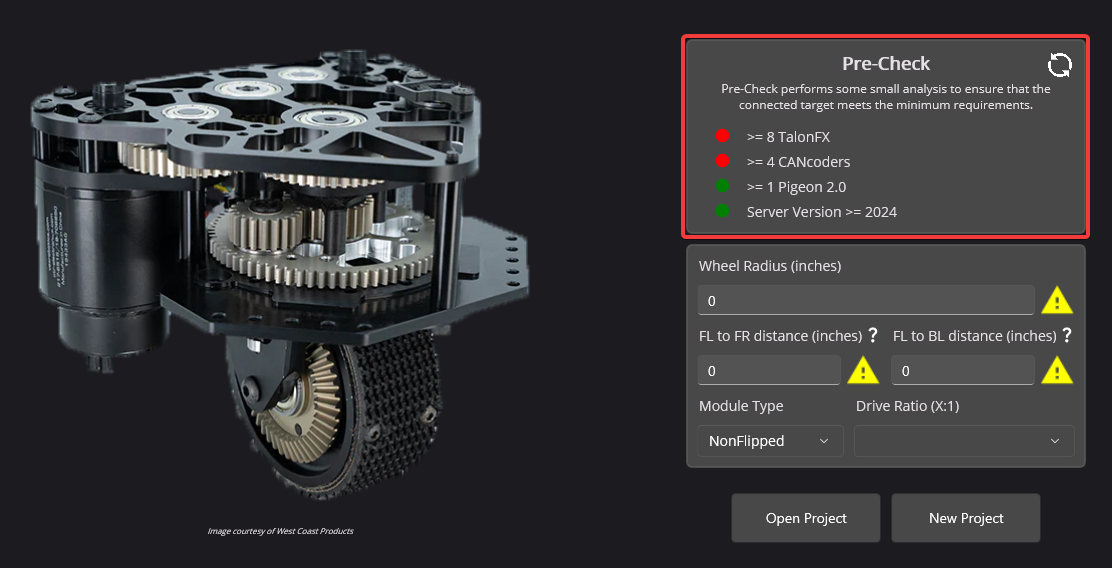
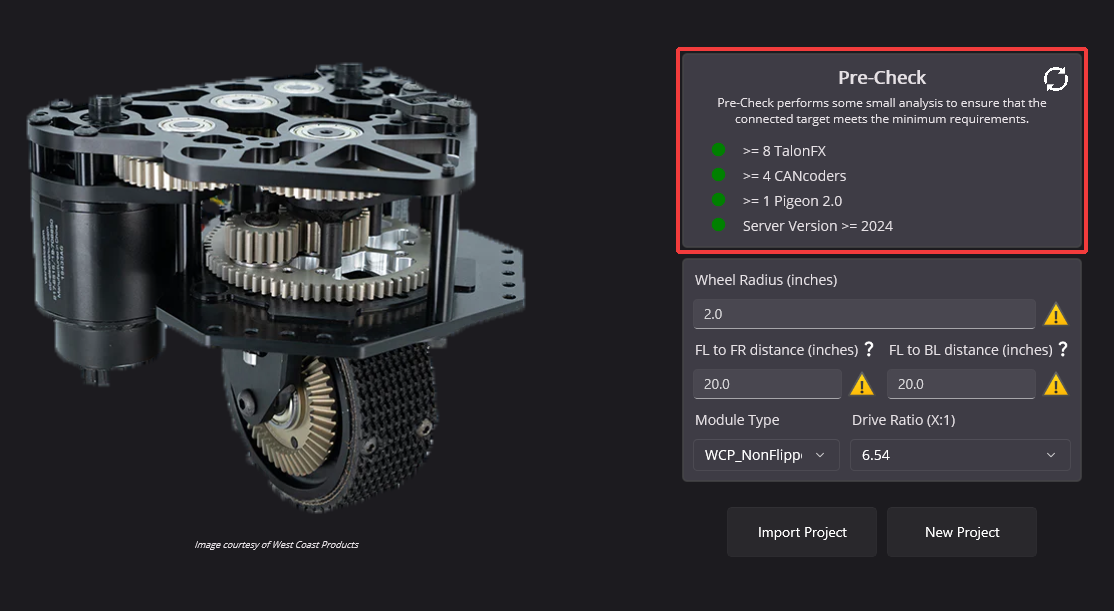
Fix and update swerve API docs

diff --git a/source/docs/api-reference/api-usage/swerve/swerve-builder-api.rst b/source/docs/api-reference/api-usage/swerve/swerve-builder-api.rst
@@ -6,7 +6,7 @@ To simplify the API surface, both `builder and factory <https://stackoverflow.co
 Defining Drivetrain Characteristics
 -----------------------------------
 
-Drivetrain, in this instance, refers to the ``SwerveDrivetrainConstants`` class (Java). This class defines characteristics that are not module specific. Mandatory parameters include ``.withPigeon2Id()`` (Java).
+Drivetrain, in this instance, refers to the ``SwerveDrivetrainConstants`` class (`Java <https://api.ctr-electronics.com/phoenix6/release/java/com/ctre/phoenix6/mechanisms/swerve/SwerveDrivetrainConstants.html>`__). This class defines characteristics that are not module specific. Mandatory parameters include ``.withPigeon2Id()``.
 
 ``SwerveDrivetrainConstants`` Example
 ^^^^^^^^^^^^^^^^^^^^^^^^^^^^^^^^^^^^^
@@ -20,22 +20,23 @@ Drivetrain, in this instance, refers to the ``SwerveDrivetrainConstants`` class 
 
          private static final SwerveDrivetrainConstants DrivetrainConstants = new SwerveDrivetrainConstants()
             .withPigeon2Id(kPigeonId)
-            .withSupportsPro(true)
-            .withCANbusName(kCANbusName);
+            .withCANbusName(kCANbusName)
+            .withSupportsPro(true);
 
 Defining Module Characteristics
 -------------------------------
 
-The typical FRC drivetrain includes 4 identical modules. To simplify module creation, there exists a ``SwerveModuleConstantsFactory`` (Java) class to simplify module creation.
+The typical FRC drivetrain includes 4 identical modules. To simplify module creation, there exists a ``SwerveModuleConstantsFactory`` (`Java <https://api.ctr-electronics.com/phoenix6/release/java/com/ctre/phoenix6/mechanisms/swerve/SwerveModuleConstantsFactory.html>`__) class to simplify module creation.
 
 Mandatory parameters for this factory are:
 
-* ``withDriveMotorGearRatio()`` (Java) - Gearing between the drive motor output shaft and the wheel.
-* ``withSteerMotorGearRatio()`` (Java) - Gearing between the steer motor output shaft and the azimuth gear.
-* ``withWheelRadius()`` (Java) - Radius of the wheel in inches.
-* ``withSteerMotorGains()`` (Java) - Instance of ``Slot0Configs`` of gains for the steering motor.
-* ``withDriveMotorGains()`` (Java) - Instance of ``Slot0Configs`` of gains for the drive motor.
-* ``withFeedbackSource()`` (Java) - Instance of ``SwerveModuleSteerFeedbackType``. Typically ``FusedCANcoder`` (Java) or ``RemoteCANcoder`` (Java).
+* ``withDriveMotorGearRatio()`` - Gearing between the drive motor output shaft and the wheel.
+* ``withSteerMotorGearRatio()`` - Gearing between the steer motor output shaft and the azimuth gear.
+* ``withWheelRadius()`` - Radius of the wheel in inches.
+* ``withSteerMotorGains()`` - Instance of ``Slot0Configs``, closed-loop gains for the steering motor.
+* ``withDriveMotorGains()`` - Instance of ``Slot0Configs``, closed-loop gains for the drive motor.
+* ``withSpeedAt12VoltsMps()`` - Required for open-loop control, theoretical free speed (m/s) at 12v applied output.
+* ``withFeedbackSource()`` - Instance of ``SwerveModuleSteerFeedbackType``. Typically ``FusedCANcoder`` (requires Pro) or ``RemoteCANcoder``.
 
 For functional simulation, the following additional parameters **must** be defined.
 
@@ -58,22 +59,22 @@ For a full reference of the available functions, see the API documentation of ``
             .withDriveMotorGearRatio(kDriveGearRatio)
             .withSteerMotorGearRatio(kSteerGearRatio)
             .withWheelRadius(kWheelRadiusInches)
-            .withSlipCurrent(800)
+            .withSlipCurrent(kSlipCurrentA)
             .withSteerMotorGains(steerGains)
             .withDriveMotorGains(driveGains)
-            .withSpeedAt12VoltsMps(6) // Theoretical free speed is 10 meters per second at 12v applied output
+            .withSpeedAt12VoltsMps(kSpeedAt12VoltsMps)
             .withSteerInertia(kSteerInertia)
             .withDriveInertia(kDriveInertia)
             .withFeedbackSource(SwerveModuleSteerFeedbackType.FusedCANcoder)
-            .withCouplingGearRatio(kCoupleRatio) // Every 1 rotation of the azimuth results in couple ratio drive turns
+            .withCouplingGearRatio(kCoupleRatio)
             .withSteerMotorInverted(kSteerMotorReversed);
 
 Building the Swerve Module Constants
 ------------------------------------
 
-``SwerveModuleConstants`` can be derived, or created, from the previous ``SwerveModuleConstantsFactory``. A typical swerve drivetrain consists of four identical modules: Front Left, Front Right, Back Left, Back Right. While these modules can be instantiated directly (only really useful if the modules have different physical characteristics), the modules can also be created by calling ``createModuleConstants()`` with the aforementioned factory.
+``SwerveModuleConstants`` (`Java <https://api.ctr-electronics.com/phoenix6/release/java/com/ctre/phoenix6/mechanisms/swerve/SwerveModuleConstants.html>`__) can be derived, or created, from the previous ``SwerveModuleConstantsFactory``. A typical swerve drivetrain consists of four identical modules: Front Left, Front Right, Back Left, Back Right. While these modules can be instantiated directly (only really useful if the modules have different physical characteristics), the modules can also be created by calling ``createModuleConstants()`` with the aforementioned factory.
 
-Calling ``ConstantCreator.createModuleConstants()`` takes the following arguments:
+Calling ``createModuleConstants()`` takes the following arguments:
 
 * Steer Motor ID
 * Drive Motor ID
@@ -81,8 +82,9 @@ Calling ``ConstantCreator.createModuleConstants()`` takes the following argument
 * Steer Encoder Offset
 * X position in meters
 * Y position in meters
+* Whether the drive motor is reversed
 
-.. note:: The X and Y position of the modules is measured from the center point of the robot. These values use the same coordinate system as ``Translation2d`` (`Java <https://github.wpilib.org/allwpilib/docs/release/java/edu/wpi/first/math/geometry/Translation2d.html>`__), where forward is positive X and left is positive Y.
+.. note:: The X and Y position of the modules is measured from the center point of the robot along the X and Y axes, respectively. These values use the same coordinate system as ``Translation2d`` (`Java <https://github.wpilib.org/allwpilib/docs/release/java/edu/wpi/first/math/geometry/Translation2d.html>`__), where forward is positive X and left is positive Y.
 
 ``SwerveModuleConstants`` Example
 ^^^^^^^^^^^^^^^^^^^^^^^^^^^^^^^^^
@@ -106,9 +108,9 @@ Calling ``ConstantCreator.createModuleConstants()`` takes the following argument
 Building the ``SwerveDrivetrain``
 ---------------------------------
 
-.. note:: ``CommandSwerveDrivetrain`` (Java) is a version that implements ``Subsystem`` for easy command-based integration.
+.. note:: ``CommandSwerveDrivetrain`` is a version created by the Tuner X :doc:`Swerve Project Generator </docs/tuner/tuner-swerve/index>` that implements ``Subsystem`` (`Java <https://github.wpilib.org/allwpilib/docs/release/java/edu/wpi/first/wpilibj2/command/Subsystem.html>`__) for easy command-based integration.
 
-``SwerveDrivetrain`` (Java) is the class that handles odometry, configuration and control of the drivetrain. The constructor for this class takes the previous ``SwerveDrivetrainConstants`` and a list of ``SwerveModuleConstants``.
+``SwerveDrivetrain`` (`Java <https://api.ctr-electronics.com/phoenix6/release/java/com/ctre/phoenix6/mechanisms/swerve/SwerveDrivetrain.html>`__) is the class that handles odometry, configuration and control of the drivetrain. The constructor for this class takes the previous ``SwerveDrivetrainConstants`` and a list of ``SwerveModuleConstants``.
 
 .. tab-set::
 
@@ -133,79 +135,104 @@ Full Example
       .. code-block:: java
 
          static class CustomSlotGains extends Slot0Configs {
-            public CustomSlotGains(double kP, double kI, double kD, double kV, double kS) {
-                  this.kP = kP;
-                  this.kI = kI;
-                  this.kD = kD;
-                  this.kV = kV;
-                  this.kS = kS;
+            public CustomSlotGains(double kP, double kI, double kD, double kS, double kV, double kA) {
+               this.kP = kP;
+               this.kI = kI;
+               this.kD = kD;
+               this.kS = kS;
+               this.kV = kV;
+               this.kA = kA;
             }
          }
 
-         private static final CustomSlotGains steerGains = new CustomSlotGains(50, 0, 0.05, 0, 0);
-         private static final CustomSlotGains driveGains = new CustomSlotGains(3, 0, 0, 0, 0);
+         // These gains need to be tuned to your individual robot
+         private static final CustomSlotGains steerGains = new CustomSlotGains(100, 0, 0.05, 0, 0, 0);
+         private static final CustomSlotGains driveGains = new CustomSlotGains(3, 0, 0, 0, 0, 0);
 
-         private static final double kCoupleRatio = 0.0;
+         // The stator current at which the wheels start to slip;
+         // This needs to be tuned to your individual robot
+         private static final double kSlipCurrentA = 300.0;
 
-         private static final double kDriveGearRatio = 6.056;
-         private static final double kSteerGearRatio = 12.8;
+         // Theoretical free speed (m/s) at 12v applied output;
+         // This needs to be tuned to your individual robot
+         private static final double kSpeedAt12VoltsMps = 6.0;
+
+         // Every 1 rotation of the azimuth results in kCoupleRatio drive motor turns;
+         // This may need to be tuned to your individual robot
+         private static final double kCoupleRatio = 3.5;
+
+         private static final double kDriveGearRatio = 6.75;
+         private static final double kSteerGearRatio = 15.43;
          private static final double kWheelRadiusInches = 2;
-         private static final int kPigeonId = 1;
+
          private static final boolean kSteerMotorReversed = false;
-         private static final String kCANbusName = "";
          private static final boolean kInvertLeftSide = false;
          private static final boolean kInvertRightSide = true;
 
-         private static double kSteerInertia = 0.0001;
+         private static final String kCANbusName = "";
+         private static final int kPigeonId = 1;
+
+
+         // These are only used for simulation
+         private static double kSteerInertia = 0.00001;
          private static double kDriveInertia = 0.001;
 
          private static final SwerveDrivetrainConstants DrivetrainConstants = new SwerveDrivetrainConstants()
                .withPigeon2Id(kPigeonId)
-               .withSupportsPro(true)
-               .withCANbusName(kCANbusName);
+               .withCANbusName(kCANbusName)
+               .withSupportsPro(true);
 
          private static final SwerveModuleConstantsFactory ConstantCreator = new SwerveModuleConstantsFactory()
                .withDriveMotorGearRatio(kDriveGearRatio)
                .withSteerMotorGearRatio(kSteerGearRatio)
                .withWheelRadius(kWheelRadiusInches)
-               .withSlipCurrent(800)
+               .withSlipCurrent(kSlipCurrentA)
                .withSteerMotorGains(steerGains)
                .withDriveMotorGains(driveGains)
-               .withSpeedAt12VoltsMps(6) // Theoretical free speed is 10 meters per second at 12v applied output
+               .withSpeedAt12VoltsMps(kSpeedAt12VoltsMps)
                .withSteerInertia(kSteerInertia)
                .withDriveInertia(kDriveInertia)
                .withFeedbackSource(SwerveModuleSteerFeedbackType.FusedCANcoder)
-               .withCouplingGearRatio(kCoupleRatio) // Every 1 rotation of the azimuth results in couple ratio drive turns
+               .withCouplingGearRatio(kCoupleRatio)
                .withSteerMotorInverted(kSteerMotorReversed);
 
+
+         // Front Left
          private static final int kFrontLeftDriveMotorId = 1;
          private static final int kFrontLeftSteerMotorId = 0;
          private static final int kFrontLeftEncoderId = 0;
          private static final double kFrontLeftEncoderOffset = -0.75;
 
-         private static final double kFrontLeftXPosInches = 0.5;
+         private static final double kFrontLeftXPosInches = 10.5;
          private static final double kFrontLeftYPosInches = 10.5;
+
+         // Front Right
          private static final int kFrontRightDriveMotorId = 3;
          private static final int kFrontRightSteerMotorId = 2;
          private static final int kFrontRightEncoderId = 1;
          private static final double kFrontRightEncoderOffset = -0.75;
 
-         private static final double kFrontRightXPosInches = 0.5;
+         private static final double kFrontRightXPosInches = 10.5;
          private static final double kFrontRightYPosInches = -10.5;
+
+         // Back Left
          private static final int kBackLeftDriveMotorId = 5;
          private static final int kBackLeftSteerMotorId = 4;
          private static final int kBackLeftEncoderId = 2;
          private static final double kBackLeftEncoderOffset = -0.75;
 
-         private static final double kBackLeftXPosInches = -0.5;
+         private static final double kBackLeftXPosInches = -10.5;
          private static final double kBackLeftYPosInches = 10.5;
+
+         // Back Right
          private static final int kBackRightDriveMotorId = 7;
          private static final int kBackRightSteerMotorId = 6;
          private static final int kBackRightEncoderId = 3;
          private static final double kBackRightEncoderOffset = -0.75;
 
-         private static final double kBackRightXPosInches = -0.5;
+         private static final double kBackRightXPosInches = -10.5;
          private static final double kBackRightYPosInches = -10.5;
+
 
          private static final SwerveModuleConstants FrontLeft = ConstantCreator.createModuleConstants(
                kFrontLeftSteerMotorId, kFrontLeftDriveMotorId, kFrontLeftEncoderId, kFrontLeftEncoderOffset, Units.inchesToMeters(kFrontLeftXPosInches), Units.inchesToMeters(kFrontLeftYPosInches), kInvertLeftSide);

diff --git a/source/docs/api-reference/api-usage/swerve/swerve-overview.rst b/source/docs/api-reference/api-usage/swerve/swerve-overview.rst
@@ -9,10 +9,10 @@ This section focuses on utilizing the Swerve API and configuring it correctly. T
 
 - Small API surface, easily debuggable
 
-  * Build robot characteristics using ``SwerveModuleConstants`` (Java) and ``SwerveDrivetrainConstants``.
-  * Integrates cleanly into WPILib `command-based <https://docs.wpilib.org/en/stable/docs/software/commandbased/index.html>`__ framework via ``CommandSwerveDrivetrain`` (Java).
-  * Telemetrize directly in the odometry loop using the ``registerTelemetry()`` (Java) lambda.
-  * Supports handling the swerve state via ``SwerveRequest`` (Java).
+  * Build robot characteristics using ``SwerveModuleConstants`` (`Java <https://api.ctr-electronics.com/phoenix6/release/java/com/ctre/phoenix6/mechanisms/swerve/SwerveModuleConstants.html>`__) and ``SwerveDrivetrainConstants`` (`Java <https://api.ctr-electronics.com/phoenix6/release/java/com/ctre/phoenix6/mechanisms/swerve/SwerveDrivetrainConstants.html>`__).
+  * Integrates cleanly into WPILib `command-based <https://docs.wpilib.org/en/stable/docs/software/commandbased/index.html>`__ framework using ``CommandSwerveDrivetrain`` (from our examples or Tuner X).
+  * Telemetrize directly in the odometry loop using the ``registerTelemetry()`` (`Java <https://api.ctr-electronics.com/phoenix6/release/java/com/ctre/phoenix6/mechanisms/swerve/SwerveDrivetrain.html#registerTelemetry(java.util.function.Consumer)>`__) lambda.
+  * Supports handling the swerve state via ``SwerveRequest`` (`Java <https://api.ctr-electronics.com/phoenix6/release/java/com/ctre/phoenix6/mechanisms/swerve/SwerveRequest.html>`__).
 
     * Supports robot-centric, field-centric and field-centric facing angle.
     * Supports common scenarios such as X mode (point all modules toward the center of the robot).
@@ -20,13 +20,13 @@ This section focuses on utilizing the Swerve API and configuring it correctly. T
 - Simulation
 
   * Swerve simulation focuses on usability, and as such isn't perfectly accurate to a real robot.
-  * Simply call ``updateSimState`` (Java) in ``simulationPeriodic()`` (`Java <https://github.wpilib.org/allwpilib/docs/release/java/edu/wpi/first/wpilibj/IterativeRobotBase.html#simulationPeriodic()>`__).
+  * Simply call ``updateSimState`` (`Java <https://api.ctr-electronics.com/phoenix6/release/java/com/ctre/phoenix6/mechanisms/swerve/SwerveDrivetrain.html#updateSimState(double,double)>`__) in ``simulationPeriodic()`` (`Java <https://github.wpilib.org/allwpilib/docs/release/java/edu/wpi/first/wpilibj/IterativeRobotBase.html#simulationPeriodic()>`__).
 
 - Performance
 
-  * Odometry is updated synchronous with the motor controllers.
-  * Odometry is received as fast as possible via a separate thread.
-  * Combine with `Phoenix Pro <https://store.ctr-electronics.com/phoenix-pro/>`__ (optional) and a `CANivore <https://store.ctr-electronics.com/canivore/>`__ (optional) with :ref:`timesync <docs/api-reference/api-usage/status-signals:canivore timesync>` for even more performance.
+  * Odometry is updated synchronously with the motor controllers.
+  * Odometry is received as fast as possible using a separate thread.
+  * Combine with `Phoenix Pro <https://store.ctr-electronics.com/phoenix-pro/>`__ and a `CANivore <https://store.ctr-electronics.com/canivore/>`__ with :ref:`timesync <docs/api-reference/api-usage/status-signals:canivore timesync>` for improved performance.
 
 .. note:: Simulation boilerplate is automatically handled when generating a robot project using Tuner X.
 
@@ -44,21 +44,21 @@ Overview on the API
 
 Simple usage of the API is comprised of 4 core classes:
 
-- ``SwerveDrivetrainConstants`` (Java)
+- ``SwerveDrivetrainConstants`` (`Java <https://api.ctr-electronics.com/phoenix6/release/java/com/ctre/phoenix6/mechanisms/swerve/SwerveDrivetrainConstants.html>`__)
 
   * This class handles characteristics of the robot that are not module specific. e.g. CAN bus, Pigeon 2 ID, whether FD is enabled or not.
 
-- ``SwerveModuleConstantsFactory`` (Java)
+- ``SwerveModuleConstantsFactory`` (`Java <https://api.ctr-electronics.com/phoenix6/release/java/com/ctre/phoenix6/mechanisms/swerve/SwerveModuleConstantsFactory.html>`__)
 
   * Factory class that is used to instantiate ``SwerveModuleConstants`` for each module on the robot.
 
-- ``SwerveModuleConstants`` (Java)
+- ``SwerveModuleConstants`` (`Java <https://api.ctr-electronics.com/phoenix6/release/java/com/ctre/phoenix6/mechanisms/swerve/SwerveModuleConstants.html>`__)
 
   * Represents the characteristics for a given module.
 
-- ``SwerveDrivetrain`` (Java)
+- ``SwerveDrivetrain`` (`Java <https://api.ctr-electronics.com/phoenix6/release/java/com/ctre/phoenix6/mechanisms/swerve/SwerveDrivetrain.html>`__)
 
-  * Created via ``SwerveDrivetrainConstants`` and a variable number of ``SwerveModuleConstants``, this is used to control the swerve drivetrain.
+  * Created using ``SwerveDrivetrainConstants`` and a ``SwerveModuleConstants`` for each module, this is used to control the swerve drivetrain.
 
 Usage of these classes is available in the following articles in this section.
 

diff --git a/source/docs/api-reference/api-usage/swerve/swerve-simulation.rst b/source/docs/api-reference/api-usage/swerve/swerve-simulation.rst
@@ -3,7 +3,7 @@ Swerve Simulation
 
 The API supports a functionality focused simulation. This means that the simulation API assumes that the swerve drive is perfect (no scrub and no wheel slip). Additionally, it assumes the inertia of the steer module and the drive modules. Robot-wide, rotational and translational inertia is not accounted for.
 
-To update the simulated swerve robot state, ensure ``m_drivetrain.updateSimState(0.02, 12)`` (``m_drivetrain`` is a ``SwerveDrivetrain``, ``0.02`` is the loop update rate, and ``12`` is the battery voltage) is called in ``simulationPeriodic()``.
+To update the simulated swerve robot state, ensure ``m_drivetrain.updateSimState()`` is called in ``simulationPeriodic()``, where ``m_drivetrain`` is a ``SwerveDrivetrain``. The typical update rate of a robot project is 20 ms (0.020 seconds), and ``RobotController.getBatteryVoltage()`` (`Java <https://github.wpilib.org/allwpilib/docs/release/java/edu/wpi/first/wpilibj/RobotController.html#getBatteryVoltage()>`__) can be used to get the simulated battery voltage.
 
 .. tab-set::
 
@@ -14,11 +14,11 @@ To update the simulated swerve robot state, ensure ``m_drivetrain.updateSimState
 
          @Override
          public void simulationPeriodic() {
-            /* Assume 20ms update rate, 12v battery voltage */
-            updateSimState(0.02, 12);
+            /* Assume 20ms update rate, get battery voltage from WPILib */
+            updateSimState(0.020, RobotController.getBatteryVoltage());
          }
 
-.. note:: When utilizing ``CommandSwerveDrivetrain`` (via example, or Tuner X), this is handled in the subsystem ``simulationPeriodic`` instead.
+.. important:: When utilizing ``CommandSwerveDrivetrain`` (from our examples or Tuner X), this is handled in the subsystem ``simulationPeriodic`` instead.
 
 Simulation FAQ
 --------------

diff --git a/source/docs/api-reference/api-usage/swerve/swerve-requests.rst b/source/docs/api-reference/api-usage/swerve/swerve-requests.rst
@@ -1,12 +1,12 @@
 Swerve Requests
 ===============
 
-Controlling the drivetrain is done via ``setControl(SwerveRequest request)`` (Java) which takes a given ``SwerveRequest`` (Java). ``SwerveRequest`` can either be defined by the user (only recommended in advanced scenarios!) or utilizing the existing requests.
+Controlling the drivetrain is done using ``setControl(SwerveRequest request)`` (`Java <https://api.ctr-electronics.com/phoenix6/release/java/com/ctre/phoenix6/mechanisms/swerve/SwerveDrivetrain.html#setControl(com.ctre.phoenix6.mechanisms.swerve.SwerveRequest)>`__) which takes a given ``SwerveRequest`` (`Java <https://api.ctr-electronics.com/phoenix6/release/java/com/ctre/phoenix6/mechanisms/swerve/SwerveRequest.html>`__). There are multiple pre-defined ``SwerveRequest`` implementations, or users can define their own (only recommended for advanced scenarios).
 
 Applying a Request
 ------------------
 
-Requests are instantiated and then mutated via various ``withX`` functions. In the below example, a ``FieldCentric`` (Java) request is created and passed in joystick values.
+Requests are instantiated once and then mutated using various ``withX`` functions. In the below example, a ``FieldCentric`` (`Java <https://api.ctr-electronics.com/phoenix6/release/java/com/ctre/phoenix6/mechanisms/swerve/SwerveRequest.FieldCentric.html>`__) request is created and given values from a joystick.
 
 .. tab-set::
 
@@ -29,4 +29,4 @@ Requests are instantiated and then mutated via various ``withX`` functions. In t
                   .withRotationalRate(-joystick.getRightX())
             );
 
-.. note:: Users can optionally make their own ``SwerveRequests`` by implementing the ``SwerveRequest`` interface.
+.. tip:: Users can optionally make their own ``SwerveRequests`` by implementing the ``SwerveRequest`` interface.

diff --git a/source/docs/tuner/tuner-swerve/creating-your-project.rst b/source/docs/tuner/tuner-swerve/creating-your-project.rst
@@ -18,19 +18,19 @@ Creating your Project
 
 #. Module Type
 
-   * Whether or not the Swerve X module is flipped, unflipped, or flipped gear. Users not using Swerve X modules should select :guilabel:`Manual` instead.
+   * The type of swerve module, such as WCP Swerve X standard, flipped gear, or flipped belt. Users not using any of the supported modules should select :guilabel:`Custom` instead.
 
 #. Drive Ratio
 
    * This is the gearing ratio between the output shaft of the motor and the module wheel. Swerve X users can find that information `here <https://docs.wcproducts.com/frc-build-system/gearboxes/swerve#drive-ratios>`__.
 
-* Steer Ratio (non-WCP Swerve X)
+* Steer Ratio (Custom)
 
-  * This is the gearing ratio between the output shaft of the steering motor and the azimuth gear. Users must calculate this based on their gearing themselves, or consult their manufacture.
+  * This is the gearing ratio between the output shaft of the steering motor and the azimuth gear. For the :guilabel:`Custom` module type, users must calculate this based on their gearing themselves, or consult their manufacture.
 
-6. Open Project
+6. Import Project
 
-   * Open an existing Tuner swerve project save file.
+   * Import an existing Tuner X swerve project save file.
 
 7. New Project
 
@@ -51,6 +51,6 @@ Once a project is open, a couple of options are exposed at the top-right.
 In order from left to right:
 
 * Factory default all devices
-* Open the swerve config menu
+* Open the swerve settings menu
+* Export project
 * Exit project
-* Save project

diff --git a/source/docs/yearly-changes/yearly-changelog.rst b/source/docs/yearly-changes/yearly-changelog.rst
@@ -61,10 +61,10 @@ Swerve drive code is as easy as the following.
 
    private void configureBindings() {
       drivetrain.setDefaultCommand( // Drivetrain will execute this command periodically
-      drivetrain.applyRequest(() ->
-         drive.withVelocityX(-joystick.getLeftY() * MaxSpeed) // Drive forward with negative Y (forward)
-         .withVelocityY(-joystick.getLeftX() * MaxSpeed) // Drive left with negative X (left)
-         .withRotationalRate(-joystick.getRightX() * MaxAngularRate) // Drive counterclockwise with negative X (left)
+         drivetrain.applyRequest(() ->
+            drive.withVelocityX(-joystick.getLeftY() * MaxSpeed) // Drive forward with negative Y (forward)
+               .withVelocityY(-joystick.getLeftX() * MaxSpeed) // Drive left with negative X (left)
+               .withRotationalRate(-joystick.getRightX() * MaxAngularRate) // Drive counterclockwise with negative X (left)
          )
       );
 
